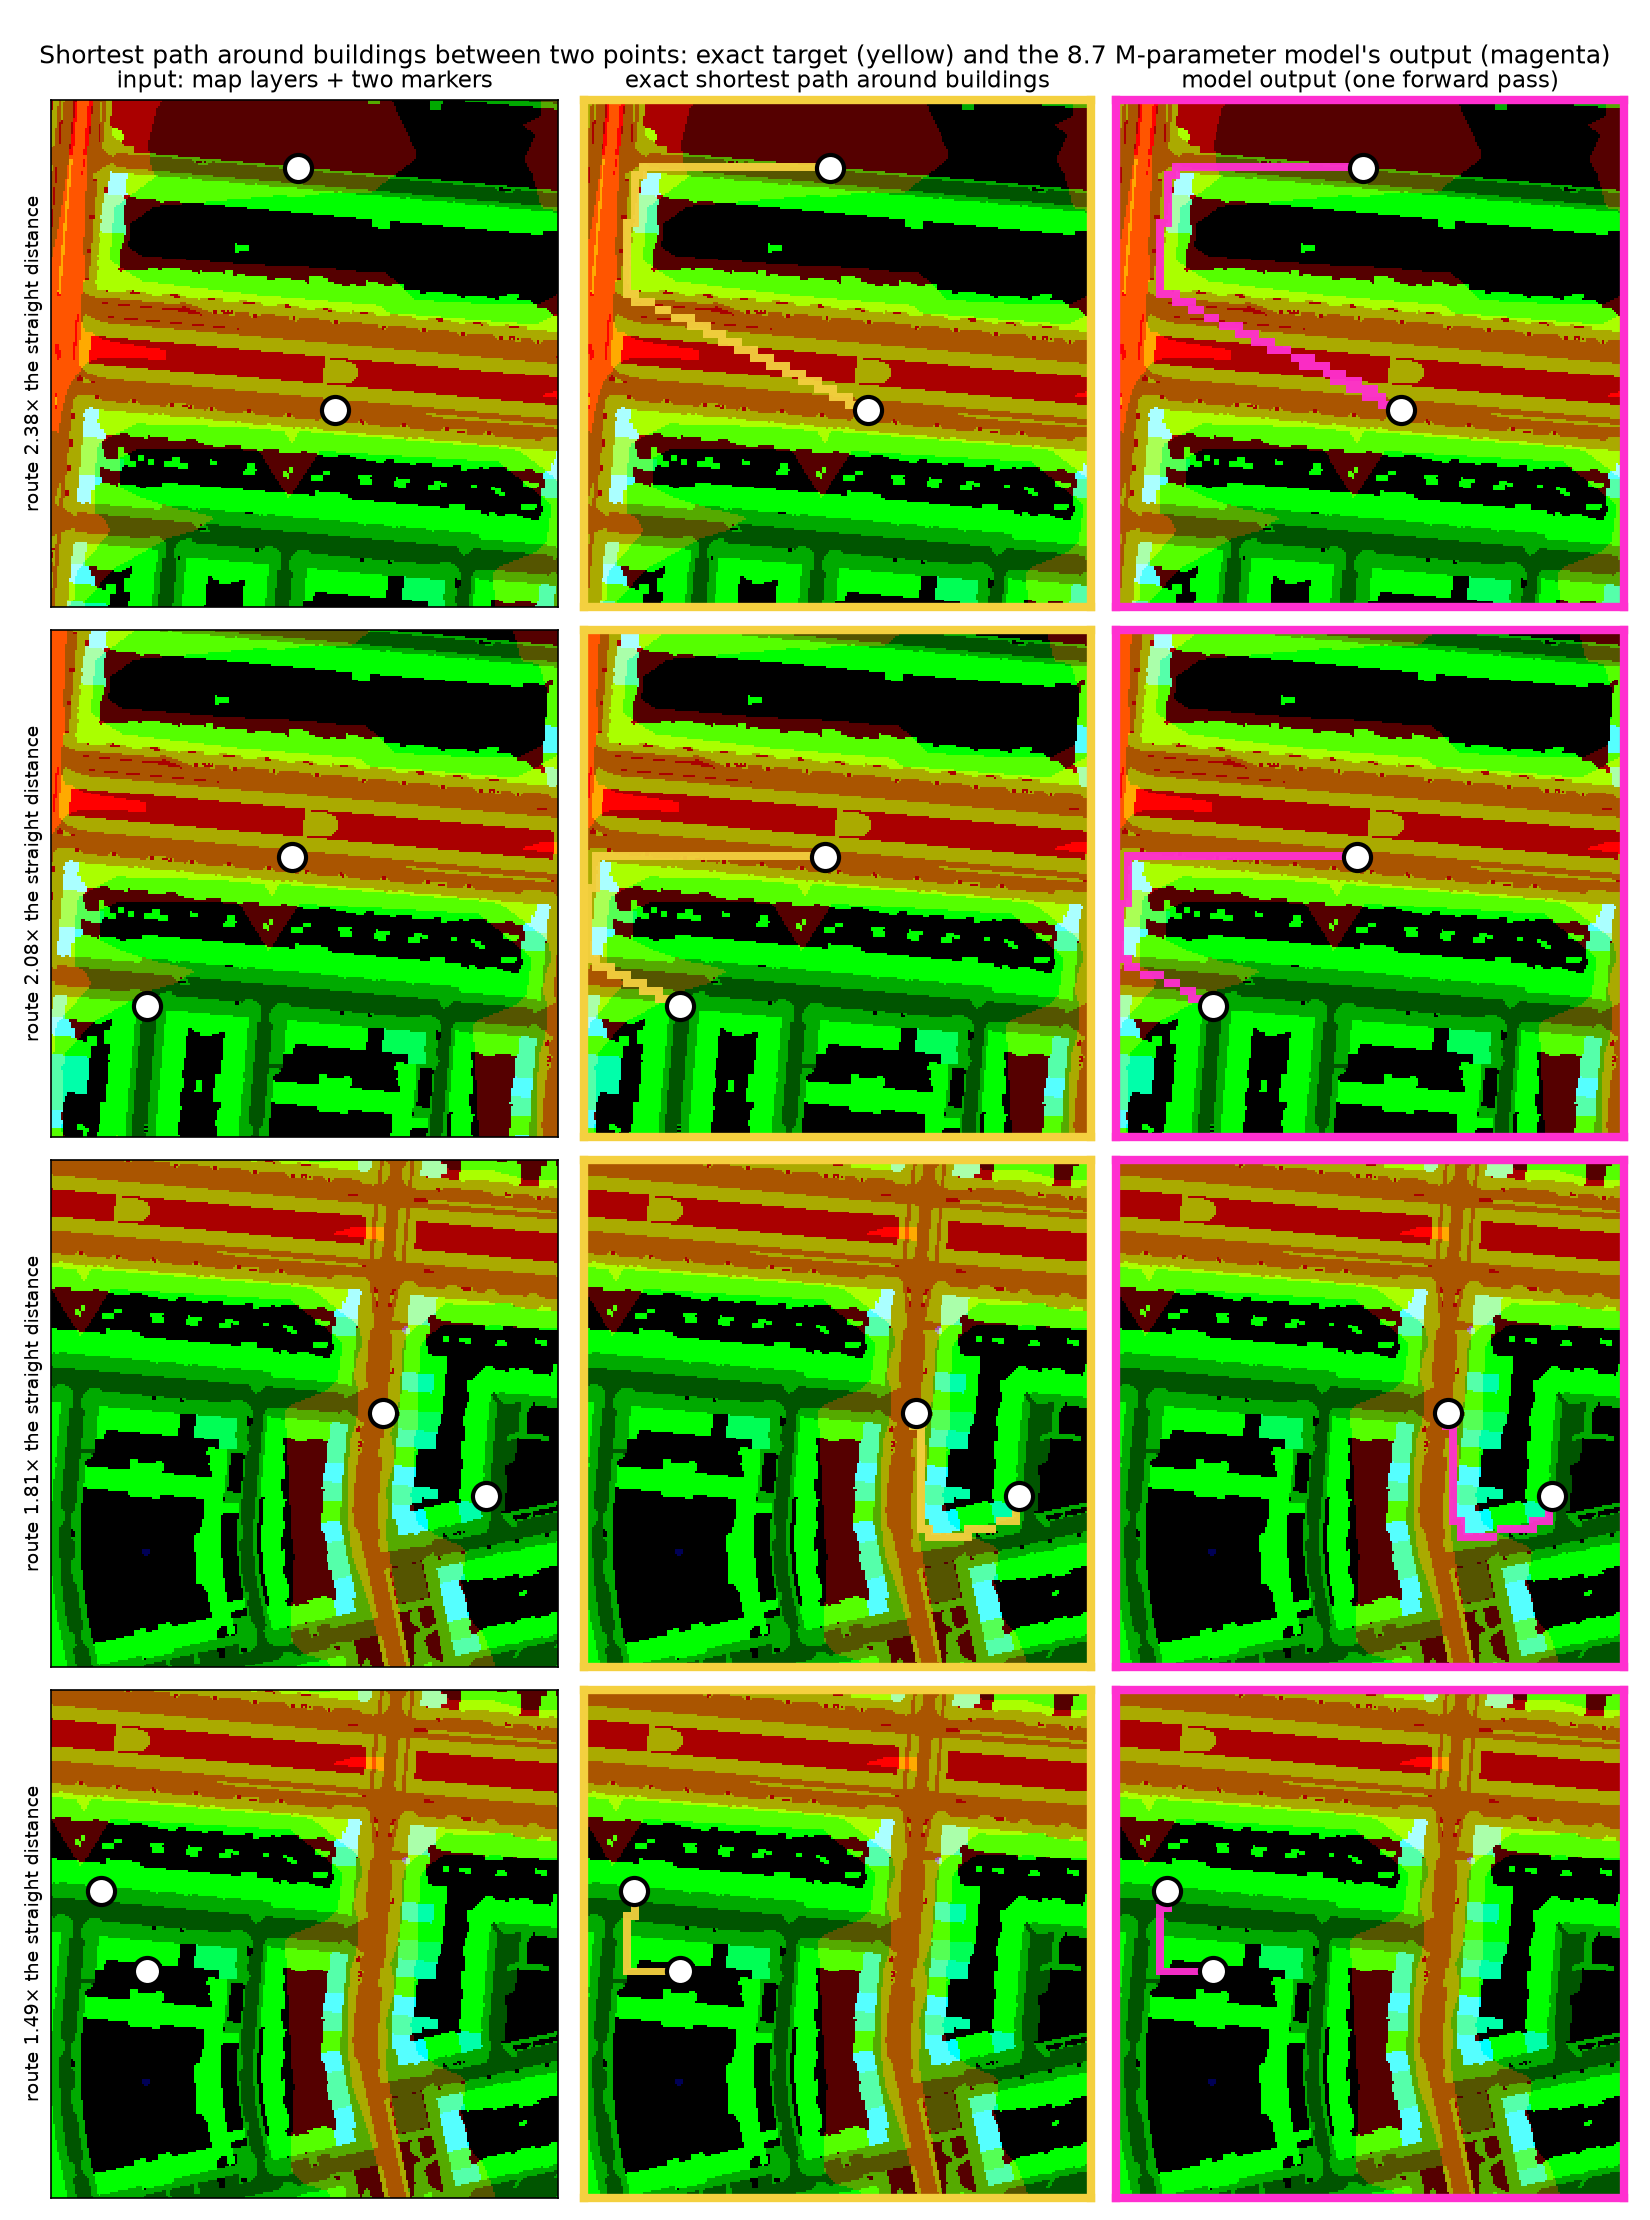
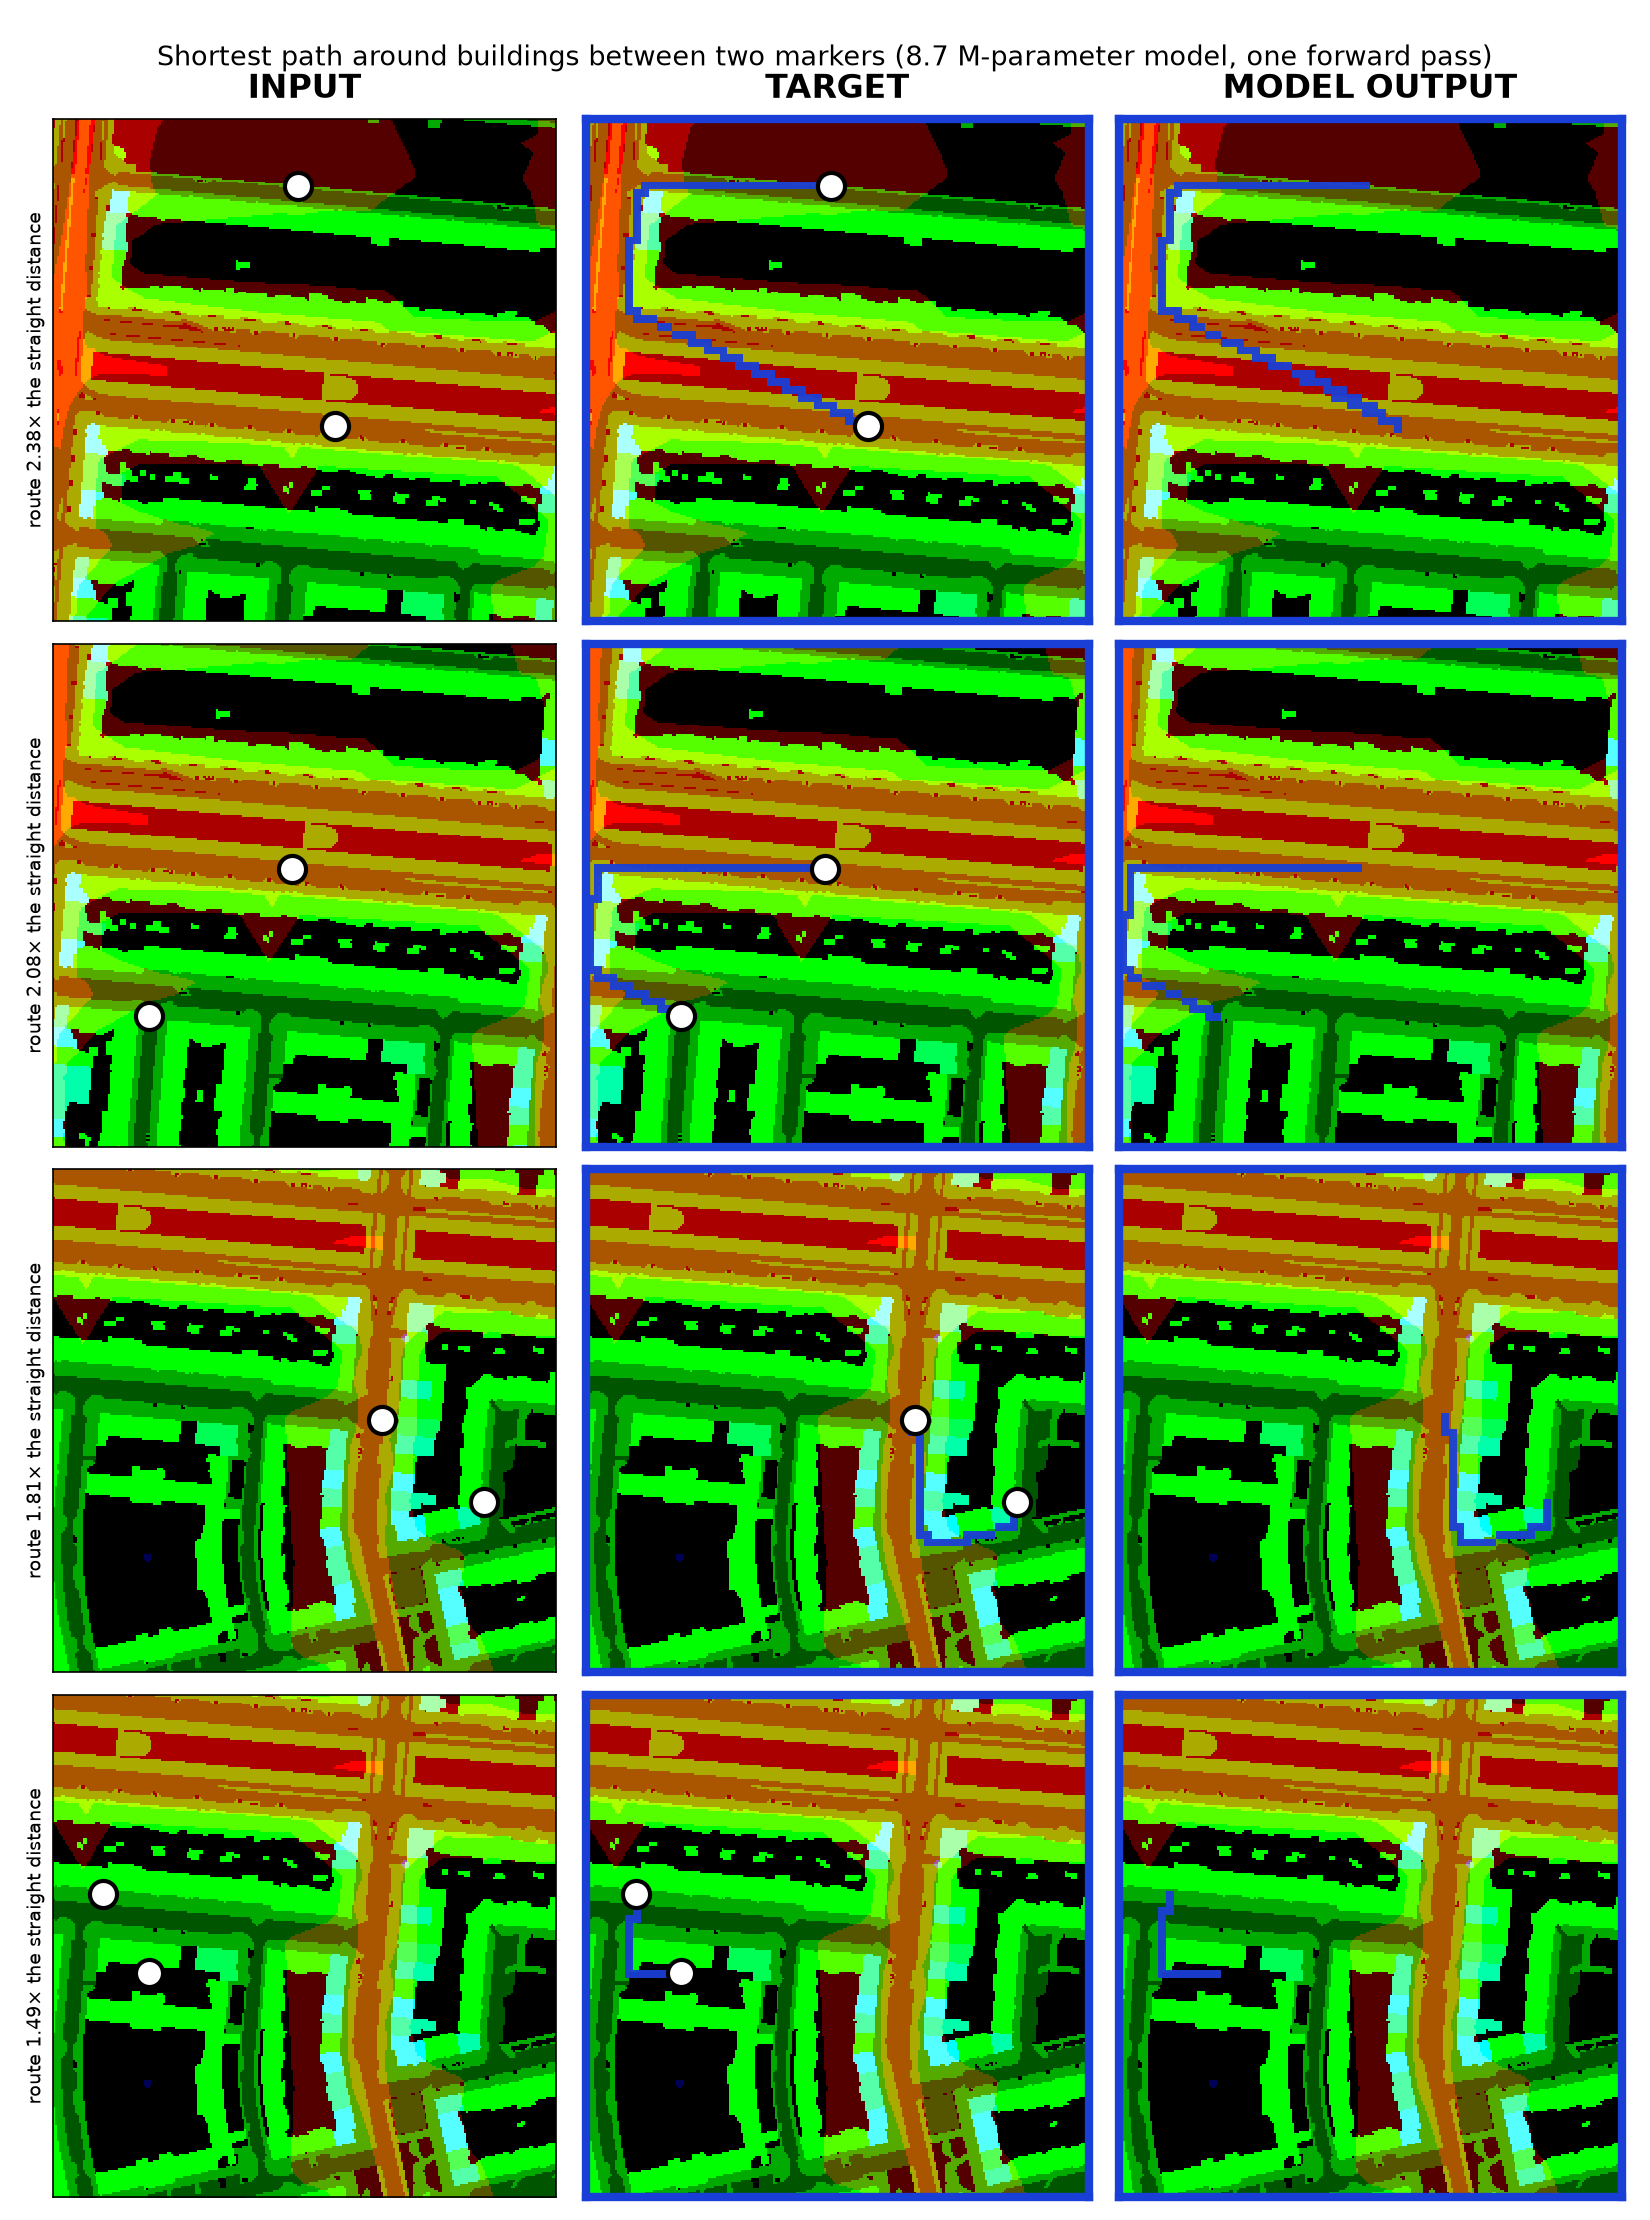
Hero and results figures: blue overlays, bold INPUT / TARGET / MODEL OUTPUT headers, no markers on the output panels

diff --git a/docs/figures_make2.py b/docs/figures_make2.py
@@ -15,7 +15,7 @@ import torch, config
 LED = {r["id"]: r for r in json.load(open(REPO / "runs/experiments.json"))["runs"]}
 GREY = np.array([0, 85, 170, 255], dtype=np.uint8)
 plt.rcParams.update({"font.size": 10, "axes.titlesize": 11, "figure.dpi": 150, "font.family": "DejaVu Sans"})
-TARGET_C, PRED_C = "#f4d03f", "#ff2fd0"
+TARGET_C, PRED_C = "#1a3fd6", "#1a3fd6"
 
 
 def load_run(run, **extra):
@@ -68,7 +68,7 @@ def overlay_panel(ax, rgb, cells, color, markers, title=None, alpha=0.95):
         ax.add_patch(Rectangle((x * 4 - 0.5, y * 4 - 0.5), 4, 4, facecolor=color, edgecolor="none", alpha=alpha))
     for (x, y) in markers:
         ax.plot(x, y, "o", ms=13, mfc="white", mec="black", mew=2)
-    if title: ax.set_title(title)
+    if title: ax.set_title(title, fontsize=16, weight="bold", pad=10)
     ax.set_xticks([]); ax.set_yticks([])
 
 
@@ -98,15 +98,15 @@ def fig_f0():
     fig, axes = plt.subplots(len(picks), 3, figsize=(11, 3.7 * len(picks)))
     for r, (img, tgt, p, ratio) in enumerate(picks):
         rgb = rgb_from_img(img); mk = marker_xy(img)
-        overlay_panel(axes[r, 0], rgb, np.zeros((64, 64), bool), TARGET_C, mk, "input: map layers + two markers" if r == 0 else None)
-        overlay_panel(axes[r, 1], rgb, tgt > 0, TARGET_C, mk, "exact shortest path around buildings" if r == 0 else None)
-        overlay_panel(axes[r, 2], rgb, p > 0.5, PRED_C, mk, "model output (one forward pass)" if r == 0 else None)
+        overlay_panel(axes[r, 0], rgb, np.zeros((64, 64), bool), TARGET_C, mk, "INPUT" if r == 0 else None)
+        overlay_panel(axes[r, 1], rgb, tgt > 0, TARGET_C, mk, "TARGET" if r == 0 else None)
+        overlay_panel(axes[r, 2], rgb, p > 0.5, PRED_C, [], "MODEL OUTPUT" if r == 0 else None)
         axes[r, 0].set_ylabel(f"route {ratio:.2f}× the straight distance", fontsize=9)
     for c, col in enumerate((None, TARGET_C, PRED_C)):
         if col:
             for ax in axes[:, c]:
                 for s in ax.spines.values(): s.set_edgecolor(col); s.set_linewidth(4)
-    fig.suptitle("Shortest path around buildings between two points: exact target (yellow) and the 8.7 M-parameter model's output (magenta)", fontsize=12)
+    fig.suptitle("Shortest path around buildings between two markers (8.7 M-parameter model, one forward pass)", fontsize=13)
     fig.tight_layout(); fig.savefig(OUT / "F0_hero_detour.png"); plt.close(fig); print("F0 done")
 
 
@@ -225,9 +225,9 @@ def fig_f9():
         ax.text(0.0, 0.78, f"{r + 1}. {level}", fontsize=12, weight="bold", transform=ax.transAxes, va="center")
         ax.text(0.0, 0.48, task, fontsize=10, transform=ax.transAxes, va="center")
         ax.text(0.0, 0.14, metric, fontsize=10, transform=ax.transAxes, va="center", color="#1a5276", weight="bold")
-        overlay_panel(axes[r, 1], rgb, np.zeros_like(tgt), TARGET_C, mk, "input crop" if r == 0 else None)
-        overlay_panel(axes[r, 2], rgb, tgt, TARGET_C, mk, "exact target" if r == 0 else None, alpha=0.85)
-        overlay_panel(axes[r, 3], rgb, pred, PRED_C, mk, "model output" if r == 0 else None, alpha=0.85)
+        overlay_panel(axes[r, 1], rgb, np.zeros_like(tgt), TARGET_C, mk, "INPUT" if r == 0 else None)
+        overlay_panel(axes[r, 2], rgb, tgt, TARGET_C, mk, "TARGET" if r == 0 else None, alpha=0.85)
+        overlay_panel(axes[r, 3], rgb, pred, PRED_C, [], "MODEL OUTPUT" if r == 0 else None, alpha=0.85)
     fig.suptitle("Task levels, one validation example each, and the headline number (all models 4.8–8.7 M parameters, trained from scratch)", fontsize=12)
     fig.tight_layout(); fig.savefig(OUT / "F9_results_table.png"); plt.close(fig); print("F9 done")
 
